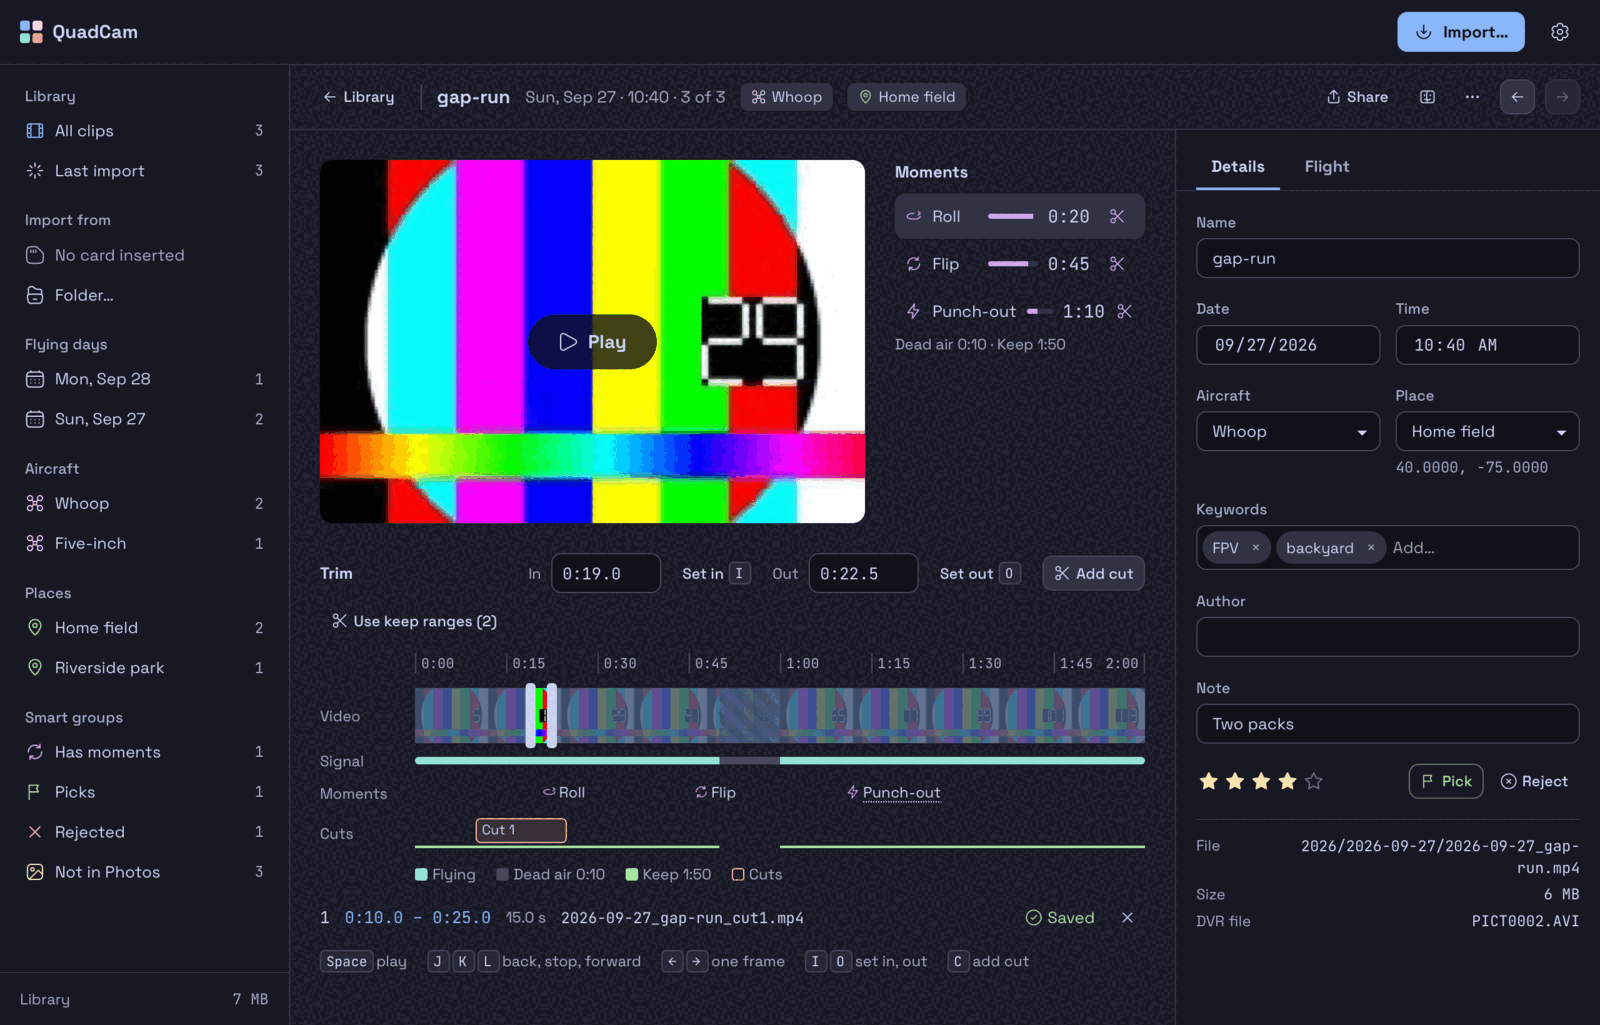
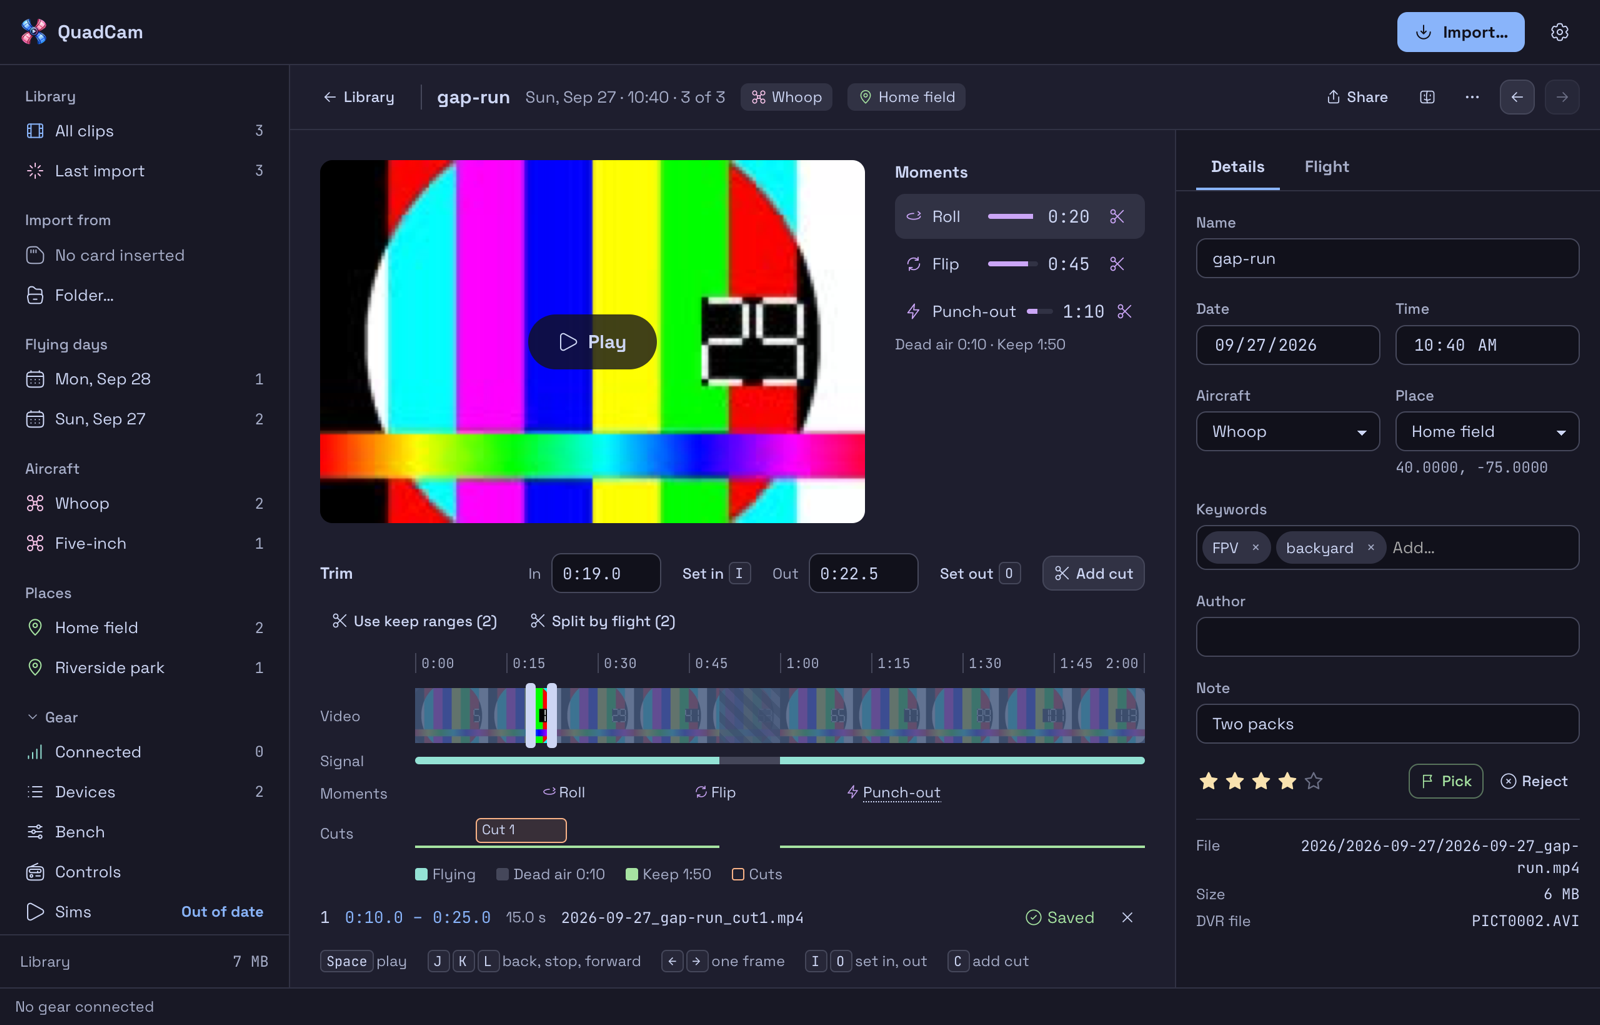
docs: regenerate screenshots, add a gear shot, link the changelog

diff --git a/app/e2e/shots.spec.ts b/app/e2e/shots.spec.ts
@@ -49,6 +49,28 @@ for (const scheme of ["dark", "light"] as const) {
       await page.screenshot({ path: shot("import-review") });
     });
 
+    test("gear", async ({ app, page }) => {
+      await app.open("gear");
+      await app.core(`c => {
+        const fc = { id: c.gearSeed.FC.id, kind: "fc", link: { kind: "serial", port: "/dev/cu.usbmodem0", vid: 0x0483, pid: 0x5740, product: null }, identity: {} };
+        c.plug([fc], []);
+      }`);
+      const nav = page.getByRole("navigation", { name: "Library" });
+      await nav.getByRole("button", { name: /^Connected/ }).click();
+      await page.mouse.move(10, 10);
+      await page.waitForTimeout(300);
+      await page.screenshot({ path: shot("gear-connected") });
+      await page.getByRole("button", { name: /Whoop FC/ }).first().click();
+      const fc = page.getByRole("region", { name: "Whoop FC" });
+      await page.mouse.move(10, 10);
+      await page.waitForTimeout(300);
+      await page.screenshot({ path: shot("gear-fc") });
+      await fc.getByRole("group", { name: "Sections" }).getByRole("button", { name: "Blackbox" }).click();
+      await page.mouse.move(10, 10);
+      await page.waitForTimeout(300);
+      await page.screenshot({ path: shot("gear-blackbox") });
+    });
+
     test("first run", async ({ app, page }) => {
       await app.open("empty");
       await expect(page.getByRole("heading", { name: "Import your first flights" })).toBeVisible();

diff --git a/README.md b/README.md
@@ -100,6 +100,7 @@ QuadCam follows the system's light or dark appearance. [A light-mode screenshot]
 | [Format safety](docs/format-safety.md) | When QuadCam erases a card, and the guards it checks first |
 | [Command line](docs/cli.md) | `quadcam-cli`: import, library, places, profiles, settings, JSON output |
 | [MCP server](docs/mcp.md) | Connect a coding agent, the 19 tools, the control socket |
+| [Changelog](CHANGELOG.md) | What changed in each release |
 | [Development](docs/development.md) | Build from source, tests, project layout, releases |
 | [Gear](docs/gear.md) | Devices QuadCam finds, saved devices, EdgeTX cards, backups, the card check, cues, flights, packs, crashes, `quadcam-cli gear` |
 | [Gear design](docs/gear-design.md) | The plan for gear: device backups, staged changes, OSD, rates, sims, voice packs, firmware, flight analysis |

diff --git a/docs/gear.md b/docs/gear.md
@@ -92,6 +92,8 @@ serial is linked to a saved radio once and kept in that radio's record:
 
 ## Flight controllers
 
+![A flight controller's page: the Overview section with board, firmware, version, port, background reads and last backup, and tabs for OSD, Rates, Switches, Changes, Blackbox and Backups](images/gear-fc-dark.png)
+
 QuadCam talks to Betaflight over USB in two ways:
 
 - **MSP** (identify): board, firmware, version, the device id. No reboot.
